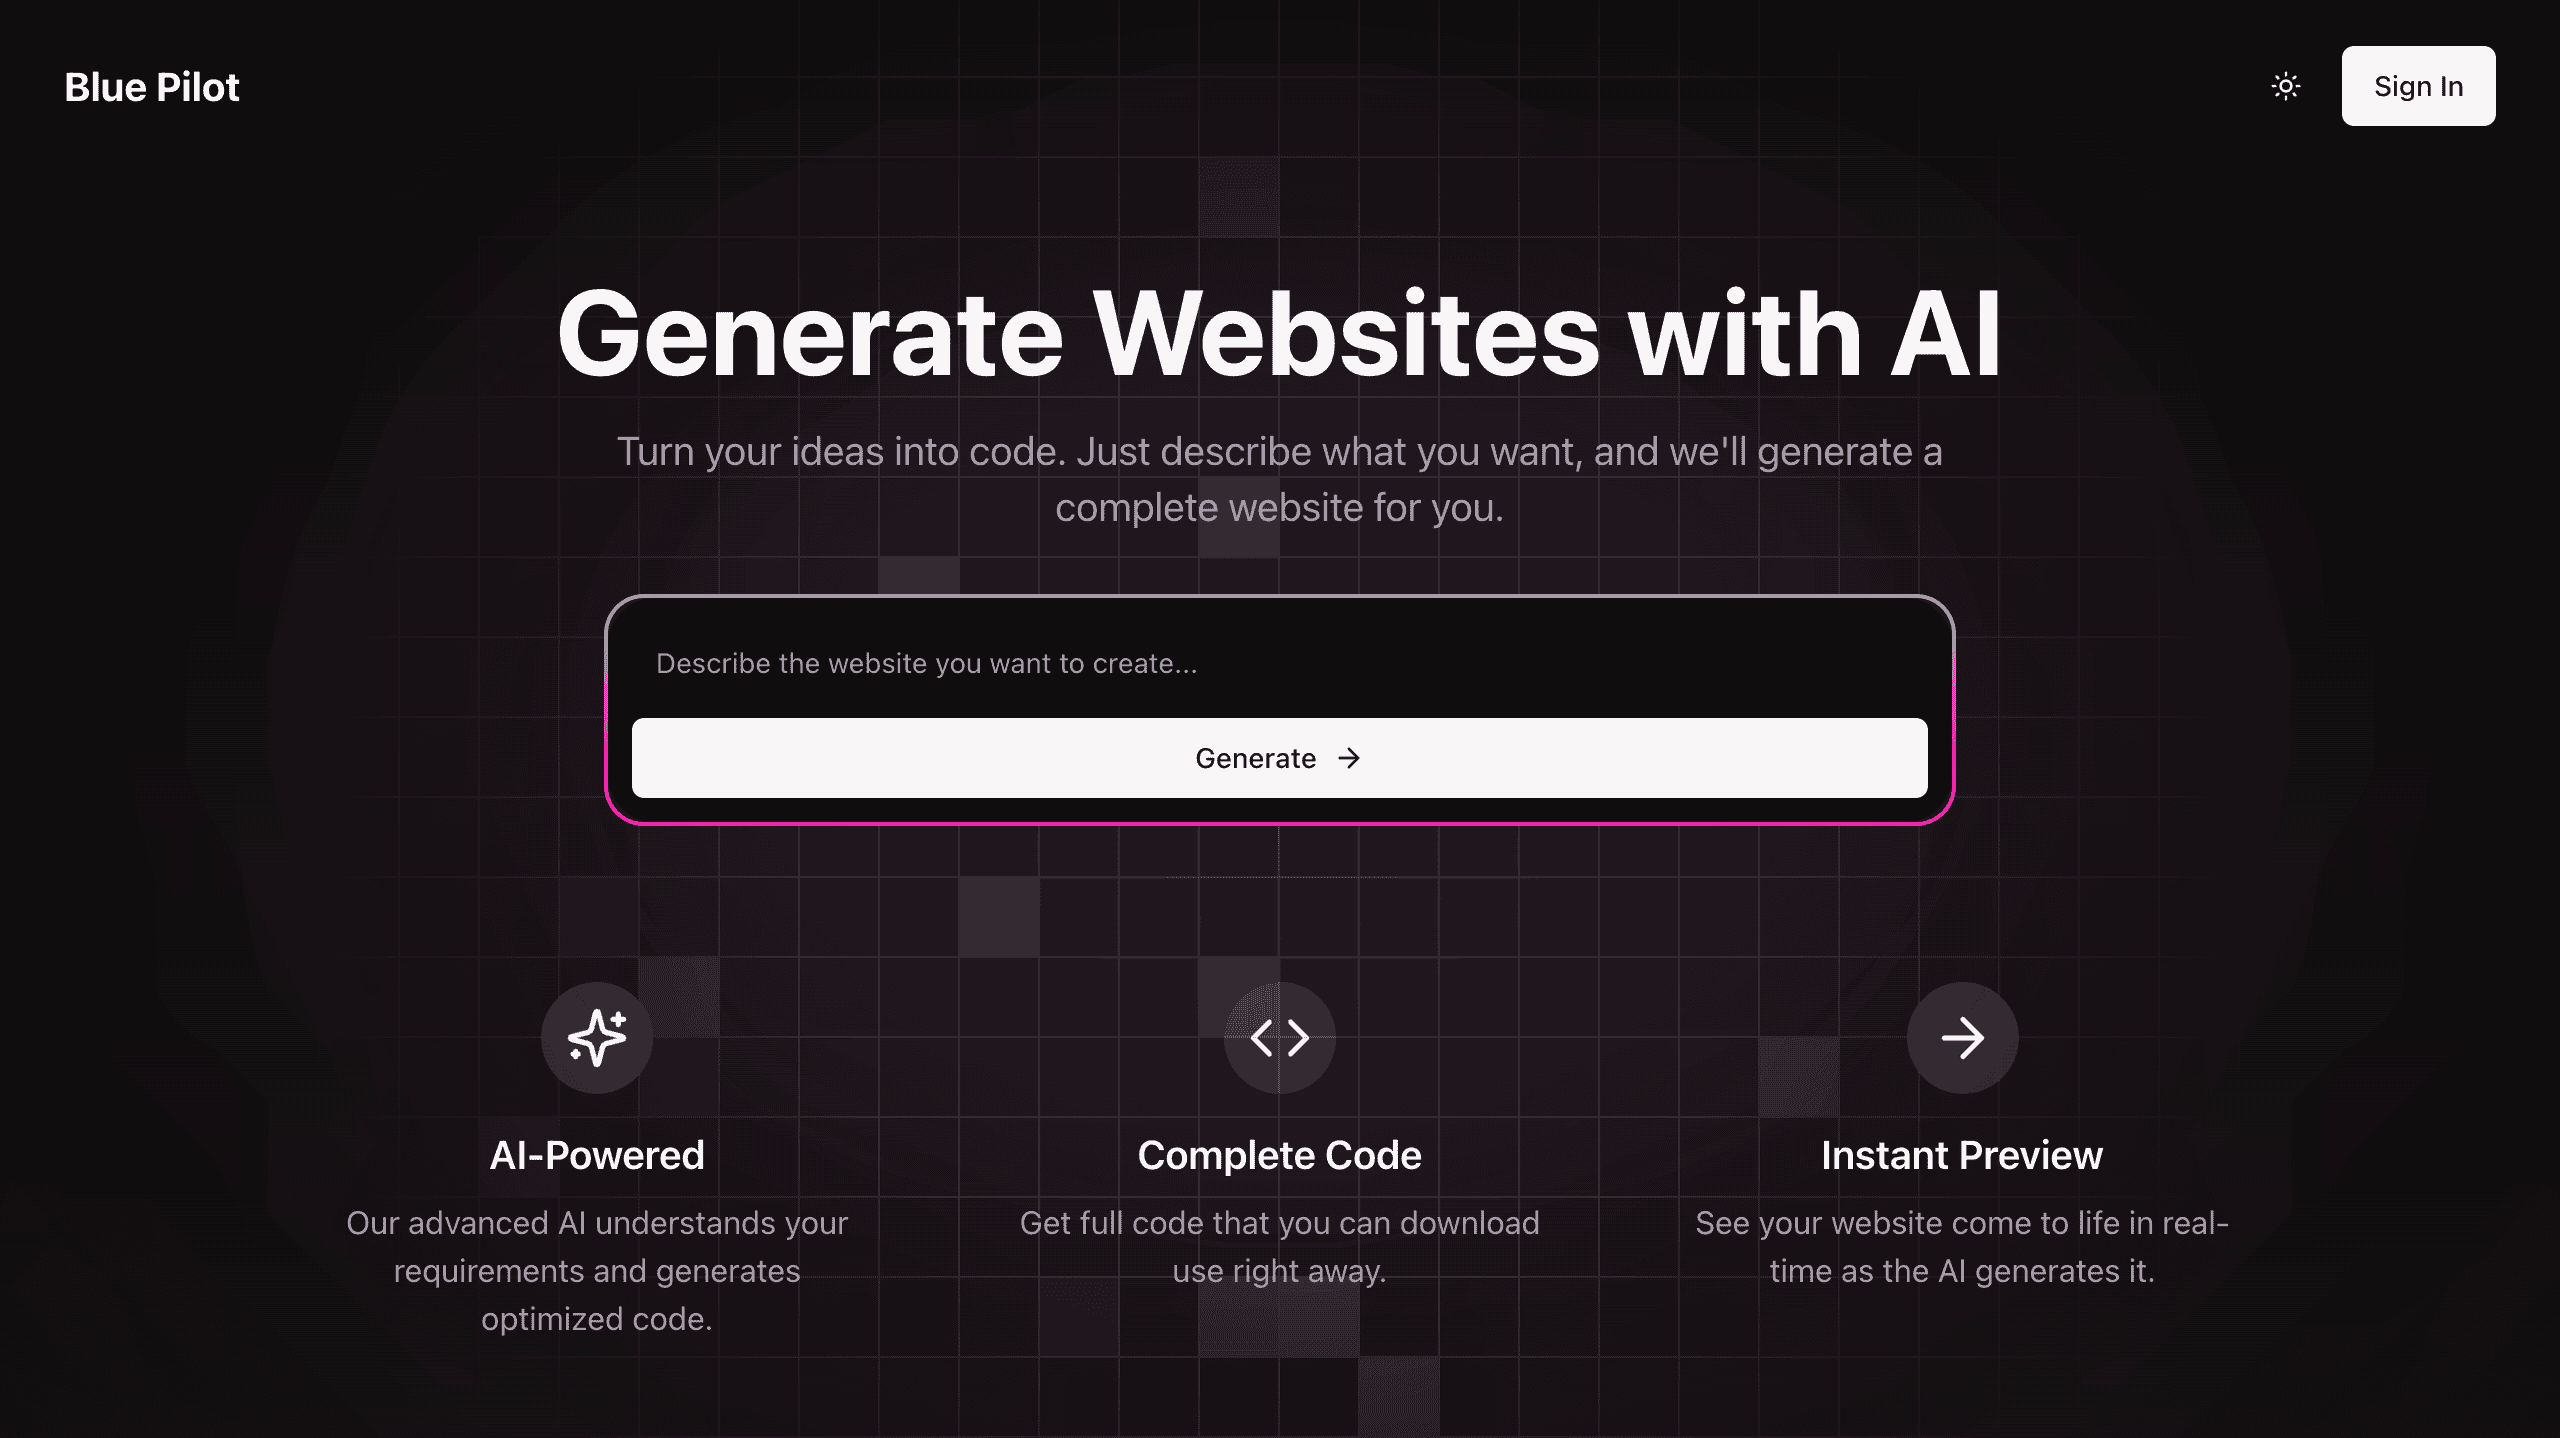
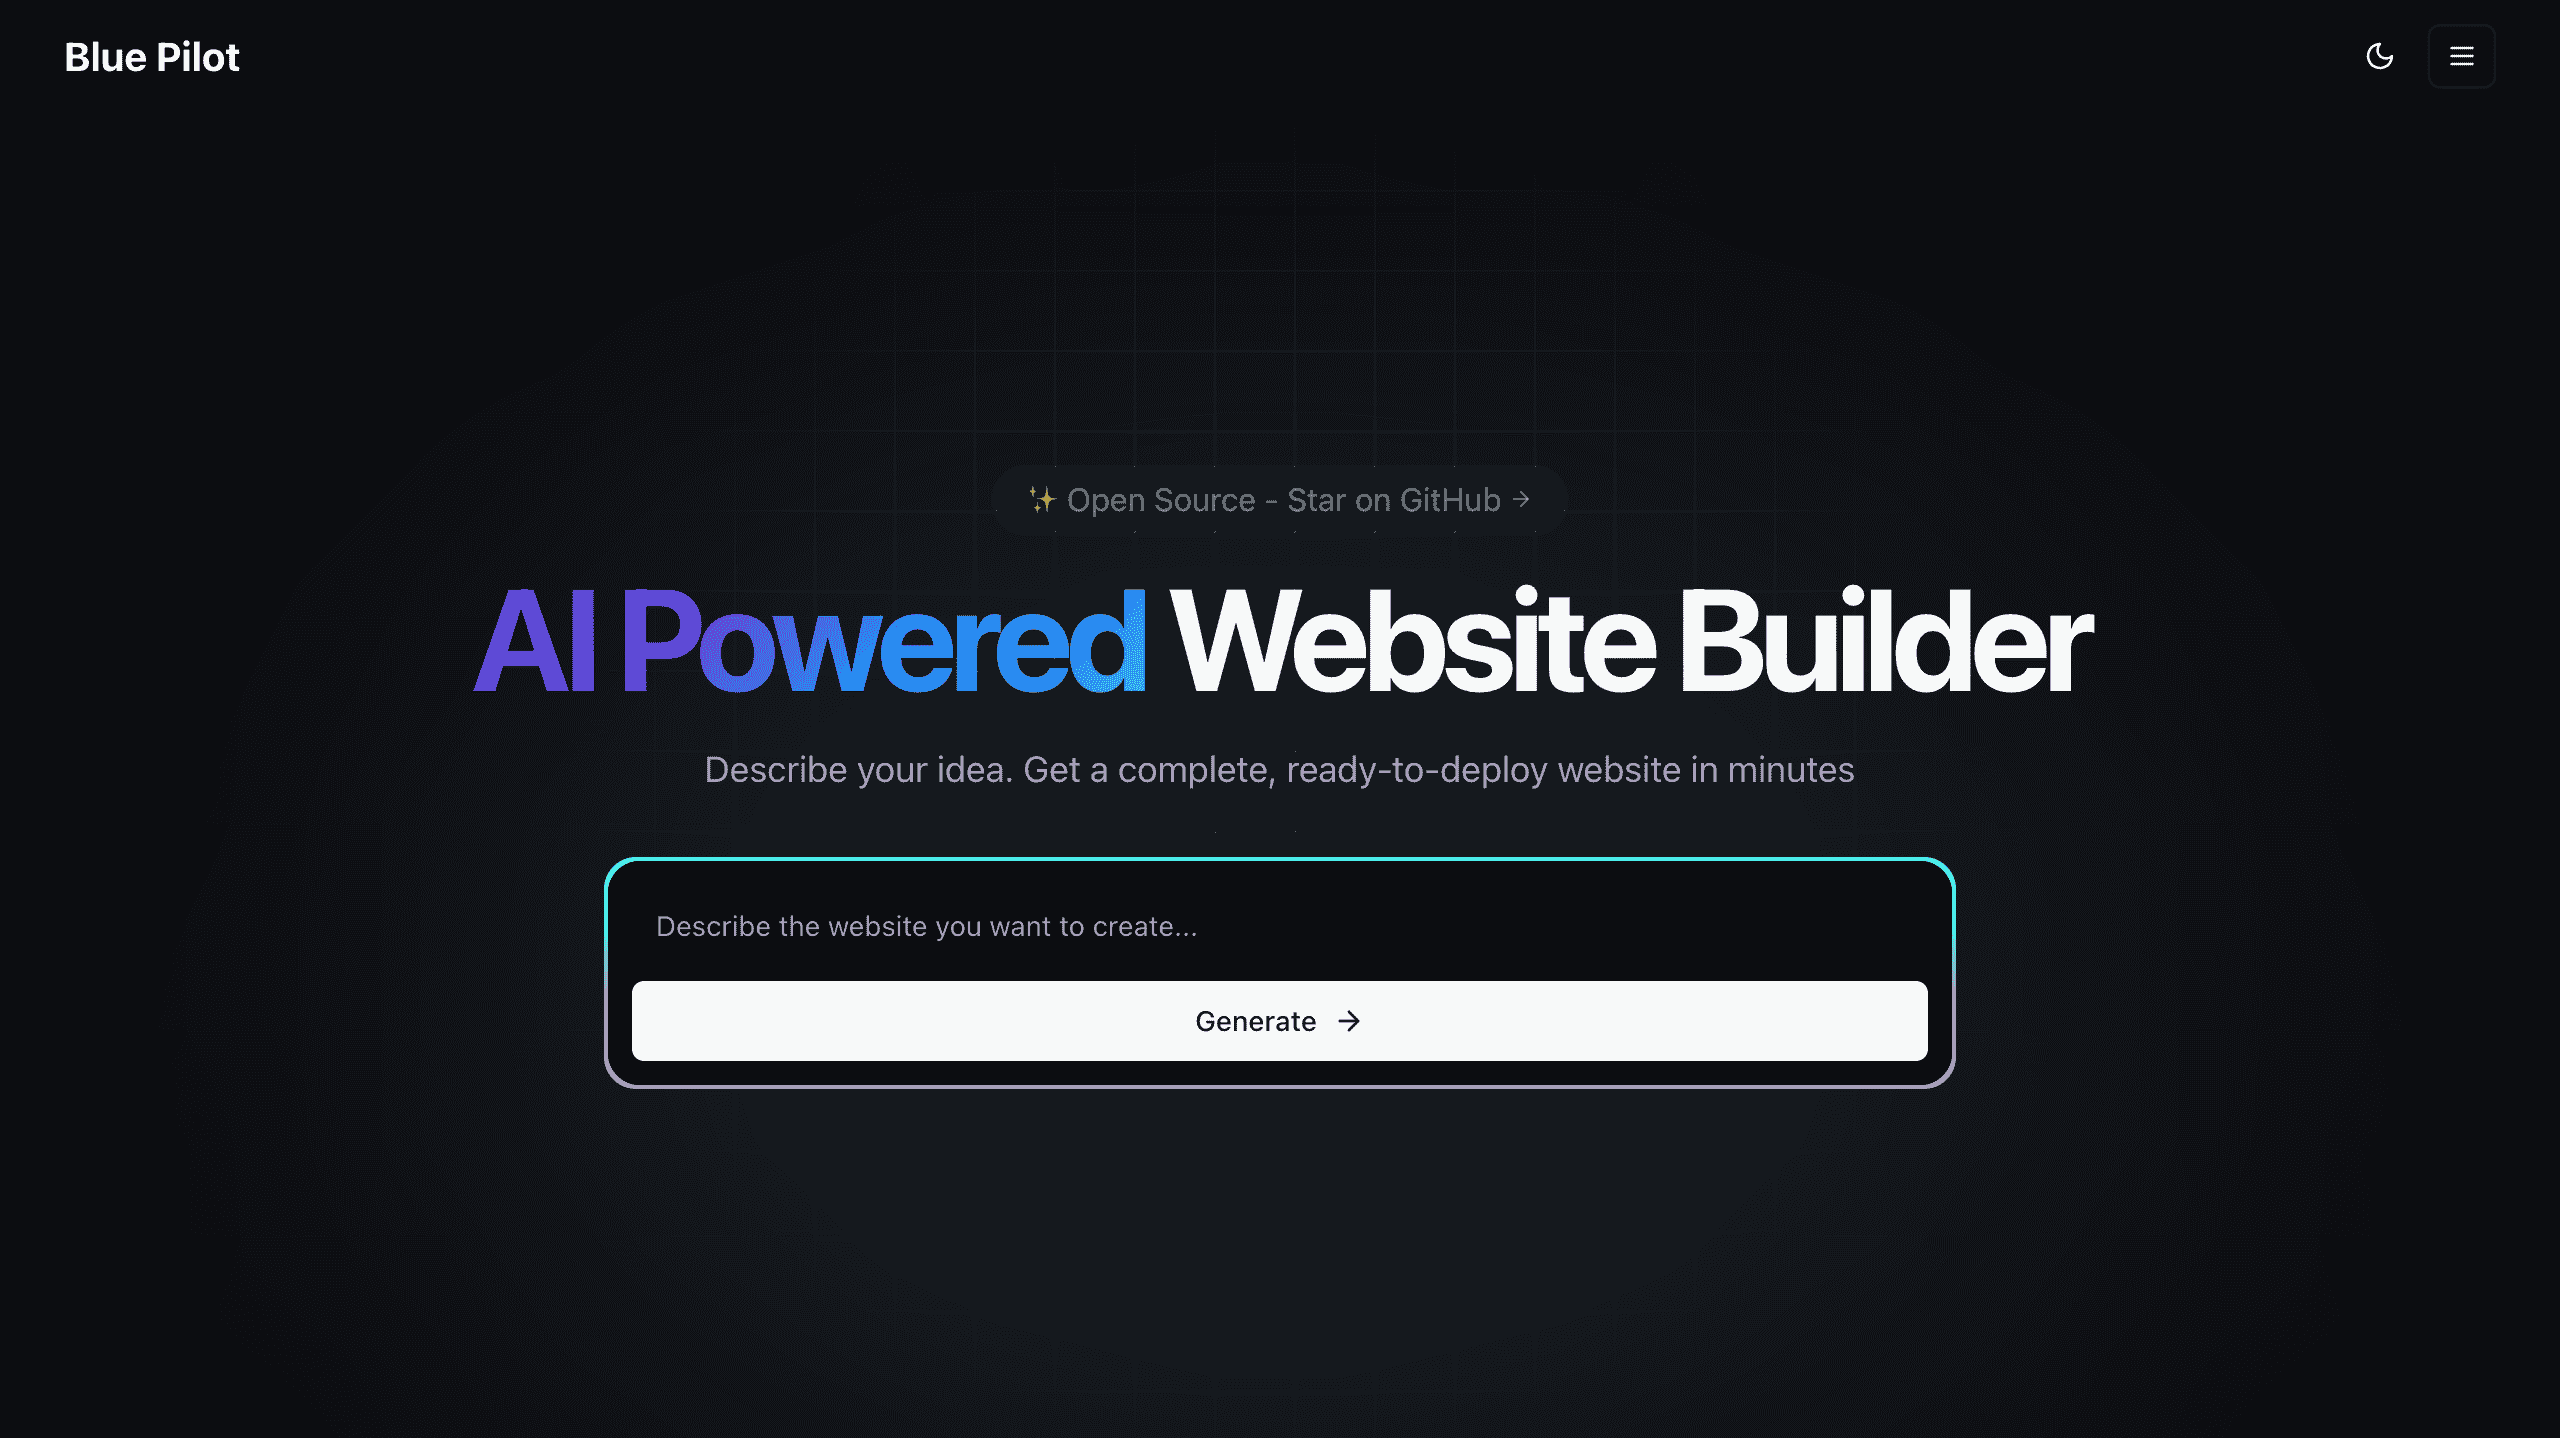
bluepilot cover

diff --git a/components/magicui/neon-gradient-card.tsx b/components/magicui/neon-gradient-card.tsx
@@ -110,33 +110,30 @@ export const NeonGradientCard: React.FC<NeonGradientCardProps> = ({
       style={
         {
           '--border-size': `${borderSize}px`,
-          '--border-radius': `${borderRadius}px`,
+          // '--border-radius': `${borderRadius}px`,
           '--neon-first-color': neonColors.firstColor,
           '--neon-second-color': neonColors.secondColor,
           '--card-width': `${dimensions.width}px`,
           '--card-height': `${dimensions.height}px`,
-          '--card-content-radius': `${borderRadius - borderSize}px`,
+          // '--card-content-radius': `${borderRadius - borderSize}px`,
           '--pseudo-element-background-image': `linear-gradient(0deg, ${neonColors.firstColor}, ${neonColors.secondColor})`,
           '--pseudo-element-width': `${dimensions.width + borderSize * 2}px`,
           '--pseudo-element-height': `${dimensions.height + borderSize * 2}px`,
           '--after-blur': `${dimensions.width / 3}px`,
         } as CSSProperties
       }
-      className={cn(
-        'relative z-10 size-full rounded-[var(--border-radius)]',
-        className
-      )}
+      className={cn('relative z-10 size-full rounded-2xl', className)}
       {...props}
     >
       <div
         className={cn(
-          'relative size-full min-h-[inherit] rounded-[var(--card-content-radius)] bg-gray-100 p-0',
+          'relative size-full min-h-[inherit] rounded-2xl bg-gray-100 p-0',
           'before:absolute before:-left-[var(--border-size)] before:-top-[var(--border-size)] before:-z-10 before:block',
-          "before:h-[var(--pseudo-element-height)] before:w-[var(--pseudo-element-width)] before:rounded-[var(--border-radius)] before:content-['']",
+          "before:h-[var(--pseudo-element-height)] before:w-[var(--pseudo-element-width)] before:rounded-2xl before:content-['']",
           'before:bg-[linear-gradient(0deg,var(--neon-first-color),var(--neon-second-color))] before:bg-[length:100%_200%]',
           'before:animate-background-position-spin',
           'after:absolute after:-left-[var(--border-size)] after:-top-[var(--border-size)] after:-z-10 after:block',
-          "after:h-[var(--pseudo-element-height)] after:w-[var(--pseudo-element-width)] after:rounded-[var(--border-radius)] after:blur-[var(--after-blur)] after:content-['']",
+          "after:h-[var(--pseudo-element-height)] after:w-[var(--pseudo-element-width)] after:rounded-2xl after:blur-[var(--after-blur)] after:content-['']",
           'after:bg-[linear-gradient(0deg,var(--neon-first-color),var(--neon-second-color))] after:bg-[length:100%_200%] after:opacity-80',
           'after:animate-background-position-spin',
           'dark:bg-neutral-900'

diff --git a/app/page.tsx b/app/page.tsx
@@ -88,7 +88,7 @@ export default function LandingPage() {
           <h1 className="text-4xl font-bold tracking-tighter md:text-5xl lg:text-7xl">
             <AuroraText>AI Powered</AuroraText> Website Builder
           </h1>
-          <p className="text-xl text-muted-foreground max-w-2xl mx-auto">
+          <p className="text-lg text-muted-foreground max-w-2xl mx-auto">
             Describe your idea. Get a complete, ready-to-deploy website in
             minutes
           </p>
@@ -96,7 +96,7 @@ export default function LandingPage() {
 
         <div className="w-full max-w-2xl">
           <NeonGradientCard>
-            <div className="p-3 bg-background rounded-3xl">
+            <div className="p-3 bg-background rounded-2xl">
               <Input
                 placeholder="Describe the website you want to create..."
                 required
